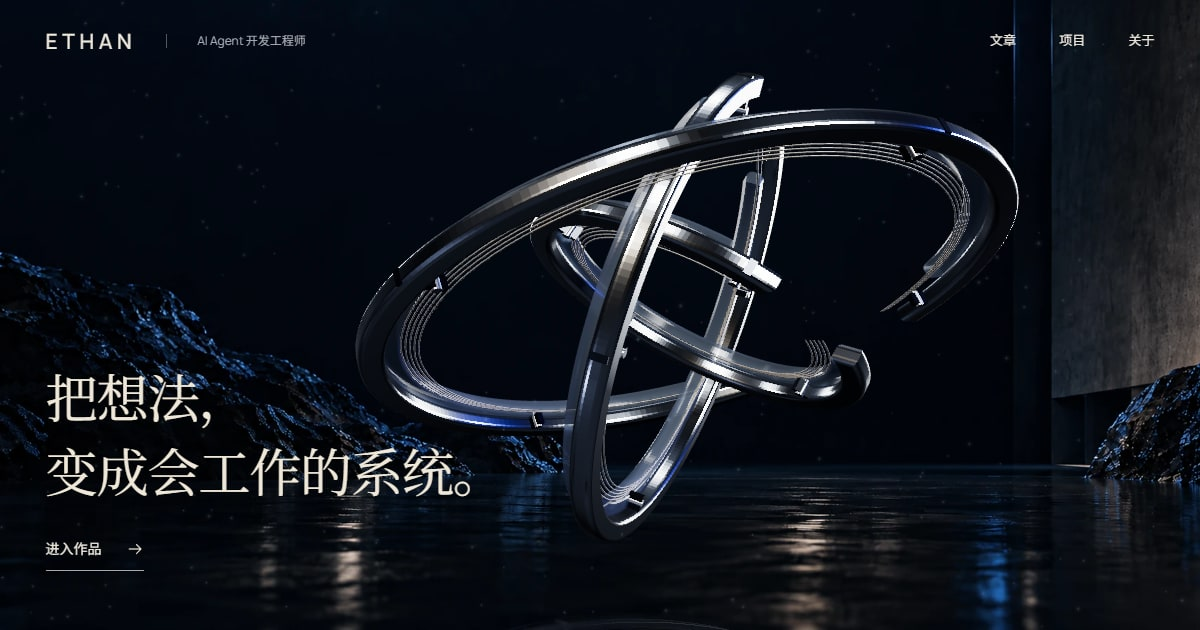
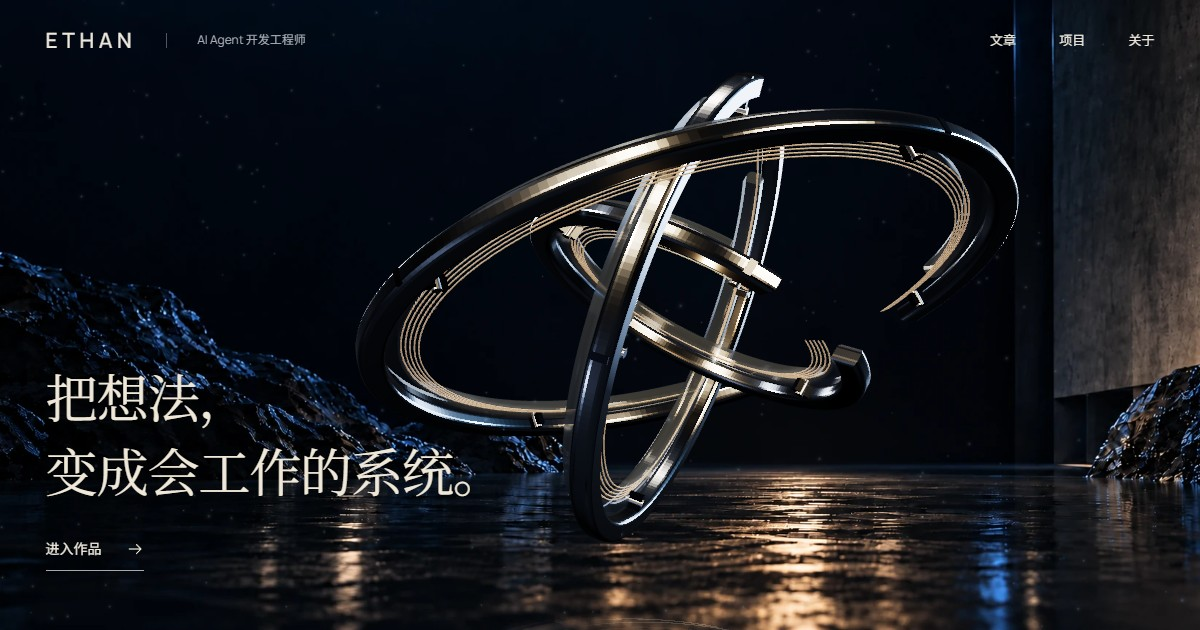
feat: bring warm cinematic lighting to the original sculpture
Keep the three-ring geometry and interactions. Balance cool silver edges with warm inner light, update the empty environment plate's floor reflections, and recapture transparent posters and sharing artwork.

diff --git a/src/lib/theatre.ts b/src/lib/theatre.ts
@@ -10,7 +10,7 @@ type Callbacks={select:(index:number)=>void;hover:(index:number|null)=>void;proj
 export async function createTheatre(host:HTMLElement,callbacks:Callbacks):Promise<TheatreHandle>{
   const renderer=new THREE.WebGPURenderer({alpha:true,antialias:true});
   renderer.setPixelRatio(Math.min(devicePixelRatio,innerWidth<760?1.25:1.5));
-  renderer.setClearColor(0,0);renderer.toneMapping=THREE.ACESFilmicToneMapping;renderer.toneMappingExposure=.8;
+  renderer.setClearColor(0,0);renderer.toneMapping=THREE.ACESFilmicToneMapping;renderer.toneMappingExposure=.85;
   try{await renderer.init();}catch(error){renderer.dispose();throw error;}
   host.appendChild(renderer.domElement);
   const backend='isWebGPUBackend' in renderer.backend?'WebGPU':'WebGL 2';
@@ -20,21 +20,25 @@ export async function createTheatre(host:HTMLElement,callbacks:Callbacks):Promis
   // Black exhibition walls and narrow softboxes give metal a dark/light reflection,
   // rather than the uniformly white finish of the default studio environment.
   environment.traverse(object=>{
-    if(object instanceof THREE.Mesh && object.material instanceof THREE.MeshStandardMaterial)object.material.color.set(0x626c7a);
+    if(object instanceof THREE.Mesh && object.material instanceof THREE.MeshStandardMaterial)object.material.color.set(0x454d59);
     if(object instanceof THREE.PointLight)object.intensity=350;
-    if(object instanceof THREE.Mesh && object.material instanceof THREE.MeshLambertMaterial){object.material.emissiveIntensity*=.35;object.scale.multiplyScalar(1.5);}
+    if(object instanceof THREE.Mesh && object.material instanceof THREE.MeshLambertMaterial){
+      object.material.emissive.set(object.position.z>8?0xffd7a4:object.position.y>19?0xffebd3:object.position.x>10?0xaec9ea:0xe9edf5);
+      object.material.emissiveIntensity*=.35;object.scale.multiplyScalar(1.5);
+    }
   });
   const pmrem=new THREE.PMREMGenerator(renderer);const environmentMap=pmrem.fromScene(environment,.025);
-  scene.environment=environmentMap.texture;scene.environmentIntensity=1.1;scene.environmentRotation.set(.35,.7,.15);environment.dispose();
-  const key=new THREE.DirectionalLight(0xffe9ce,2);key.position.set(-4,5,5);scene.add(key);
-  const rim=new THREE.DirectionalLight(0x517dff,3);rim.position.set(5,2,-2);scene.add(rim);
+  scene.environment=environmentMap.texture;scene.environmentIntensity=.95;scene.environmentRotation.set(.35,.7,.15);environment.dispose();
+  const key=new THREE.DirectionalLight(0xffddb0,2.5);key.position.set(-4,5,5);scene.add(key);
+  const rim=new THREE.DirectionalLight(0x82adcf,2.2);rim.position.set(5,2,-2);scene.add(rim);
   const fill=new THREE.DirectionalLight(0xc7d9ff,.7);fill.position.set(-5,-2,2);scene.add(fill);
+  const coreLight=new THREE.PointLight(0xffca8b,8,9,2);coreLight.position.set(1,.2,1.1);scene.add(coreLight);
   // A small white source catches nearby bevels without recoloring an entire ring.
   const pointerLight=new THREE.PointLight(0xf4f6ff,0,1.65,2);pointerLight.name='pointer-reflection';scene.add(pointerLight);
   const world=new THREE.Group();world.position.set(1.25,.25,0);world.rotation.z=-.16;scene.add(world);
   const chrome=new THREE.MeshPhysicalMaterial({color:0xd6dfeb,metalness:1,roughness:.19,clearcoat:1,clearcoatRoughness:.12,envMapIntensity:1.5});
   const glass=new THREE.MeshPhysicalMaterial({color:0x8799b0,metalness:0,roughness:.12,transmission:.65,thickness:.12,ior:1.46,transparent:true,opacity:.72,clearcoat:1,side:THREE.DoubleSide});
-  const wire=new THREE.MeshStandardMaterial({color:0xc7c3ba,metalness:1,roughness:.29});
+  const wire=new THREE.MeshStandardMaterial({color:0xc7c3ba,metalness:1,roughness:.29,emissive:0xffc88c,emissiveIntensity:.32});
   const joint=new THREE.MeshStandardMaterial({color:0x646a73,metalness:1,roughness:.24});
   function addMesh(parent:THREE.Object3D,geometry:THREE.BufferGeometry,material:THREE.Material){const mesh=new THREE.Mesh(geometry,material);parent.add(mesh);return mesh;}
   function band(radius:number,width:number,start:number,end:number){
@@ -67,7 +71,7 @@ export async function createTheatre(host:HTMLElement,callbacks:Callbacks):Promis
   ringGroups.forEach(({ring,target})=>ring.traverse(object=>{if(object instanceof THREE.Mesh&&object!==target)selectionSurfaces.push(object);}));
   // A restrained mirrored echo grounds the sculpture without a full-screen reflection pass.
   const reflection=world.clone(true);reflection.position.y=-5.8;reflection.scale.y=-.24;
-  reflection.traverse(object=>{if(object instanceof THREE.Mesh){const original=object.material as THREE.Material;const material=original.clone();material.transparent=true;material.opacity=.065;material.depthWrite=false;object.material=material;}});scene.add(reflection);
+  reflection.traverse(object=>{if(object instanceof THREE.Mesh){const original=object.material as THREE.Material;const material=original.clone();material.transparent=true;material.opacity=.085;material.depthWrite=false;object.material=material;}});scene.add(reflection);
   const particles=createParticleField(scene,camera);
   let state:TheatreState={motion:!matchMedia('(prefers-reduced-motion: reduce)').matches,selected:null,hovered:null,scroll:0};
   const arrivalDuration=1.16,arrivalStagger=.07,arrivalTotal=arrivalDuration+arrivalStagger*2;

diff --git a/docs/launch-checklist.md b/docs/launch-checklist.md
@@ -70,3 +70,10 @@
 - 新增 `scripts/inspect-entrance.mjs`，记录桌面与手机的实际入场画面，验收方向、收敛、持续自转、中途拖拽、导航中断、减少动态效果及加载回退。
 - 额外修复中途启用减少动态效果后的视差余动。最小实际像素复现由 4,366 个变化像素降至 0；GPU 重绘自身出现过单像素、单通道一级舍入差，验收在解码像素后允许至多 1/255 的舍入误差，同时检测真正的旋转和局部反光变化，避免输出巨量 PNG 断言差异。
 - 最终生产浏览器验收：入场 10/10、雕塑 29/29、导航 11/11，无未捕获异常；实际检查桌面和手机的入场截图。类型检查、构建与发布产物 6/6 通过。需求与规范复核提出的慢加载连续性、像素比较和失败后偏好恢复均已处理。
+
+## 冷暖光影（2026-10-29）
+
+- 用户决定保留原三环，移植概念 B 的光影气质。调整环境软箱、暖中心光、冷轮廓光与内侧导线低强度暖光，保留银色主体、局部银白悬停反馈和全部既有交互。
+- 使用内置 image_gen 对独立环境图做局部光照编辑，加入自然、破碎的暖金地面反射和右墙掠射光；中央保持空白，无模型、文字或界面。原始生成文件保留，仓库使用原生 1832×859 输出，不放大。提示词为 `assets/plates/environment-warm.prompt.txt`，来源、尺寸和哈希见对应 JSON。
+- 重新捕获桌面/手机透明雕塑回退图，并同步分享封面。地面暖反射为静态环境素材，三环光照为实时三维效果。
+- 本轮生产验收：雕塑 29/29、导航 11/11、入场 10/10 通过，无未捕获异常；类型检查零错误/警告/提示，构建与发布产物 6/6 通过。实际检查桌面、手机、静态回退与分享封面；规范和需求复核均通过。

diff --git a/.impeccable/surfaces/src-pages-index-astro.md b/.impeccable/surfaces/src-pages-index-astro.md
@@ -13,7 +13,7 @@ Mode: Experience on home/projects; Read on articles. The user chose B and author
 
 THESIS: An interactive kinetic sculpture makes reasoning, action and feedback tangible before leading to real work and writing.
 
-OWN-WORLD: Navy-black exhibition space, chrome, smoked glass, warm ivory Chinese serif, calm English display serif and restrained blue activation.
+OWN-WORLD: Navy-black exhibition space, chrome, smoked glass, warm ivory Chinese serif, calm English display serif and restrained blue activation. The user retained the three rings after reviewing brain concepts, adopting only concept B's cold-silver edges, warm-champagne inner light and photographic floor reflections.
 
 STORY: On arrival, three rings fly in from different directions and decelerate into the sculpture over 1.3 seconds, with light motes gathering from the perimeter. The entrance composes with ongoing rotation and dragging; reduced motion starts assembled. A cursor-following silver-white reflection catches only nearby metal, fading out in 300ms; no whole-ring blue selection fill. Drag to rotate without pausing the rings; the cursor also gently repels, swirls and brightens nearby particles. Click only changes focus, with no card. No inter-ring lines or pulse spheres. Natural scrolling expands the object before reaching independent projects and articles.
 

diff --git a/DESIGN.md b/DESIGN.md
@@ -213,6 +213,8 @@ components:
 
 三维金属使用物理材质（金属度 1、静止粗糙度 .19、清漆 1）；烟色玻璃为非金属（金属度 0、粗糙度 .12、透射 .65、折射率 1.46）。这些是当前场景参数，不构成图像级反射、真机帧率或设备性能的承诺。下方反射为低透明度镜像结构，手机关闭此回声。
 
+用户保留三环，采用生物脑概念 B 的光影气质：外缘为冷银反射，内侧细线承接暖香槟光；金属主色与粗糙度保持原值，导线增加低强度暖色自发光。环境反射软箱、暖色中心光与冷色轮廓共同塑造明暗层次，悬停仍为局部银白反光。镜像回声透明度为 .085。地面的暖金碎光和右墙掠射光属于静态环境素材，不声称实时光线追踪；三环的受光、旋转与光标反馈由真实渲染承担。
+
 **The Material Rule.** 雕塑的金属、玻璃与反射由真实几何、物理材质和受光关系表达，不用界面卡片、CSS 模糊或静态整张概念图替代交互主体。
 
 ## Shapes
